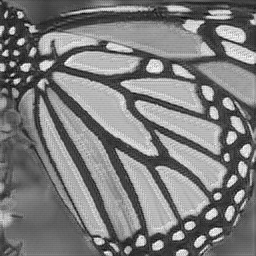
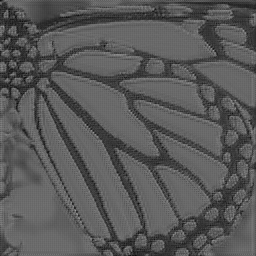
image quantization

diff --git a/ASFSR_final.py b/ASFSR_final.py
@@ -115,12 +115,15 @@ class Net(nn.Module):
             self.first_part, self.reduction, self.mid_part1, self.mid_part2, self.mid_part3, self.mid_part4, self.expansion, self.last_part
         )
         # variables
+        ### for preset
         self.wts_nbit, self.wts_fbit = 8, 4
         self.biases_nbit, self.biases_ibit = 8, 4
-        self.biases_fbit = self.biases_nbit - self.biases_ibit
-        self.bit_shift, self.output_fbit = 0, 0
         self.act_nbit, self.act_fbit = 8, 4
         self.scales_nbit, self.scales_ibit = 1, 1
+
+        ### for storage
+        self.biases_fbit = self.biases_nbit - self.biases_ibit
+        self.bit_shift, self.output_fbit = 0, 0
         self.origin_wts = []
         self.quantized_wts = []
         self.origin_biases = []
@@ -191,17 +194,17 @@ class Net(nn.Module):
             self.all_layers[i].low_par1.weight.data = self.quantized_wts[i][1]
             self.all_layers[i].low_par2.weight.data = self.quantized_wts[i][2]
 
-            # if(len(self.quantized_biases) > 0):
-            #     self.all_layers[i].high_bias = self.quantized_biases[i][0]
-            #     self.all_layers[i].low1_bias = self.quantized_biases[i][1]
-            #     self.all_layers[i].low2_bias = self.quantized_biases[i][2]
+            if(len(self.quantized_biases) > 0):
+                self.all_layers[i].high_bias = self.quantized_biases[i][0]
+                self.all_layers[i].low1_bias = self.quantized_biases[i][1]
+                self.all_layers[i].low2_bias = self.quantized_biases[i][2]
             self.all_layers[i].cuda()
 
         # last layer
         self.all_layers[-1].sub_pixel[0].weight.data = self.quantized_wts[-1][0]
 
-        # if(len(self.quantized_biases) > 0):
-        #     self.all_layers[-1].bias = self.quantized_biases[-1][0]
+        if(len(self.quantized_biases) > 0):
+            self.all_layers[-1].bias = self.quantized_biases[-1][0]
 
         self.all_layers[-1].cuda()
 
@@ -228,9 +231,10 @@ class Net(nn.Module):
             # test (should be modified)
             wts_step = 2 ** -wts_fbit
 
-            print('step: ', wts_step)
             if(scheme == "none"):
-                pass
+                high_weight = high_wts
+                low_weight1 = low_wts1
+                low_weight2 = low_wts2
 
             elif(scheme == "uniform"):
                 high_weight, _ = self.uniform_quantize(high_wts, wts_step, wts_nbit)
@@ -266,7 +270,7 @@ class Net(nn.Module):
         print('step: ', wts_step)
 
         if(scheme == "none"):
-                pass
+            last_weight = last_wts
 
         elif (scheme == "uniform"):
             last_weight, _ = self.uniform_quantize(last_wts, wts_step, wts_nbit)
@@ -351,7 +355,6 @@ class Net(nn.Module):
 
     def relu_quantize(self, x, step, nbit, bias_shift):
         pos_end = torch.tensor(2 ** nbit - 1).to(x.device)
-        # print("relu 전:", x)
 
         activations = x;
         activations = torch.where(activations >= 0, activations / round(2 ** bias_shift * (step)), torch.zeros_like(activations))

diff --git a/quantized_predict.py b/quantized_predict.py
@@ -32,7 +32,10 @@ def val_psnr(model, th, dilker, dilation, val_path, scale, boundary, psnrs):
             except:
                 img = np.expand_dims(img, axis=-1)
 
-            img = np.float64(img) / 255.
+            ####### image quantization ############
+            img = np.clip(img, 0, 255)
+            img = np.around(img).astype(np.uint8)
+            #######################################
             height, width, channel = img.shape
 
             hr = img[0:height - (height % scale), 0: width - (width % scale), :]
@@ -44,14 +47,16 @@ def val_psnr(model, th, dilker, dilation, val_path, scale, boundary, psnrs):
 
             out = model(lr, th=th)
             output = out.cuda().data.cpu()
-            save_image(output, f"outputs/{image.replace('.bmp', '')}.png")
+            # save_image(output, f"outputs/{image.replace('.bmp', '')}.png")
             output = output.numpy()
 
-            hr = d2int(hr)
-            output = d2int(output)
+            output = np.clip(output, 0, 255)
+            output = np.around(output).astype(np.uint8)
 
             output = output[0]
             output = np.moveaxis(output, 0, -1)
+
+            imsave(f"outputs/{image.replace('.bmp', '')}.png", output)
 
             avg_ssim +=SSIM(output, hr, boundary)
             avg_psnr += PSNR(hr, output, boundary=boundary)
